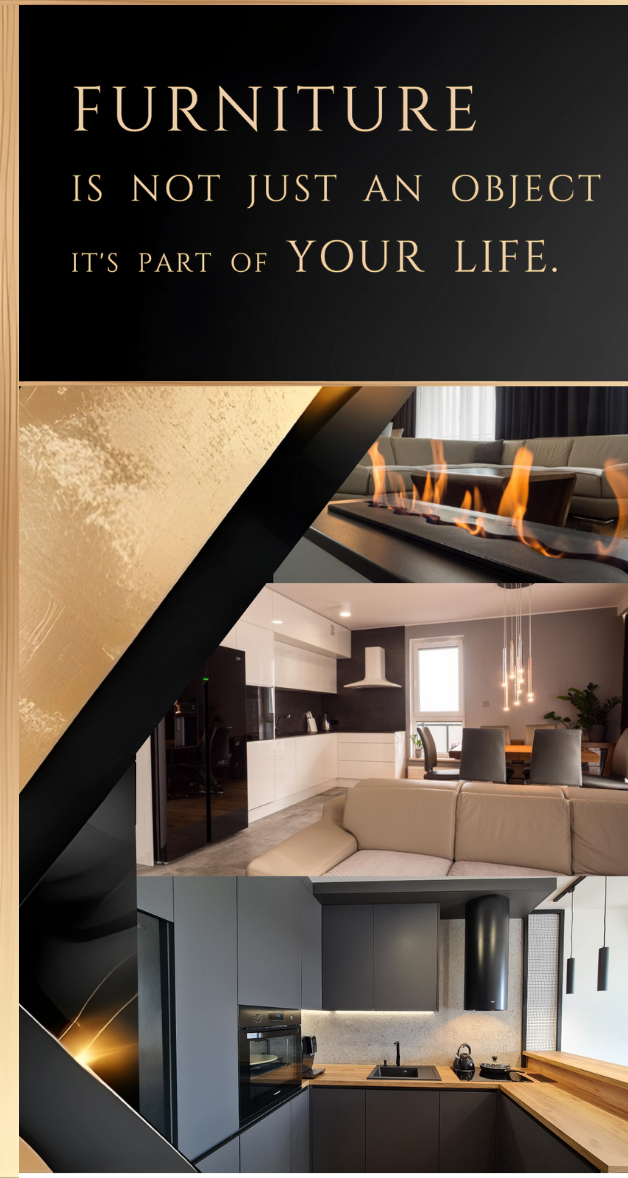
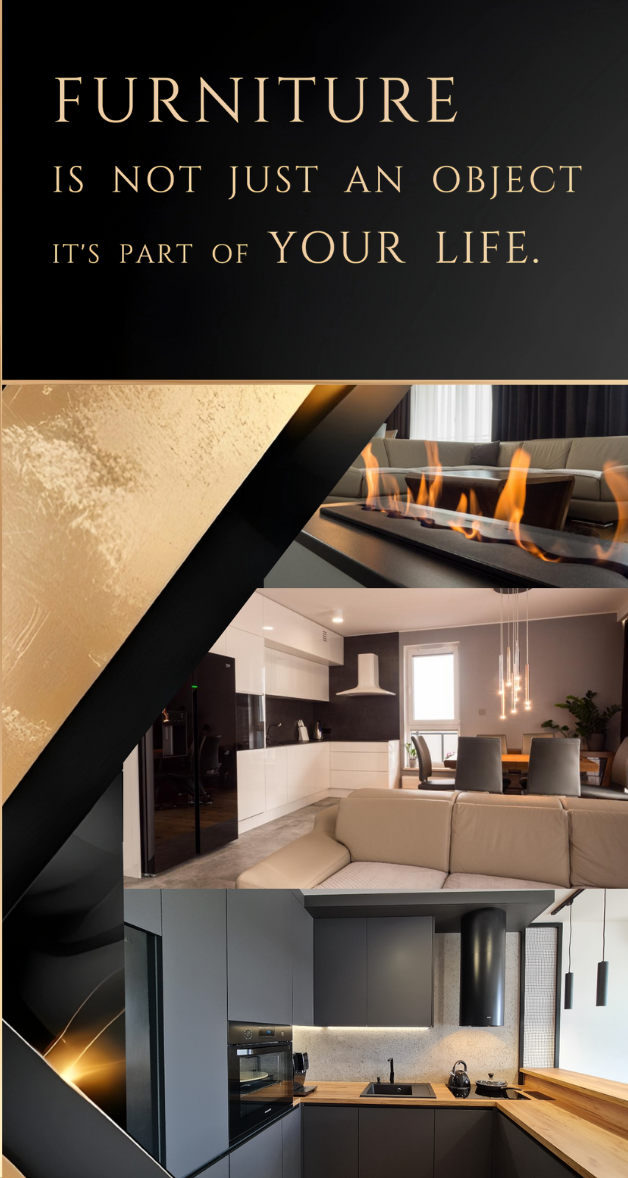
2

diff --git a/script.js b/script.js
@@ -482,7 +482,7 @@ function initializeApp() {
         initializeGalleryToggle();
         initializeMobileGalleryScrollReveal();
         initializeMobileAboutAnimation();
-        setupDynamicScrollBanner(); // Stabilne pozycjonowanie scroll bannera na mobile
+        setupDynamicScrollBannerForMobile(); // Dynamiczne pozycjonowanie dla banerm.png na 33%
         
         console.log('MetaStudio JavaScript initialized successfully');
     } catch (error) {
@@ -1072,28 +1072,13 @@ function initializeProjectHeightObserver() {
 }
 
 // ==========================================
-// DYNAMICZNE POZYCJONOWANIE SCROLL BANNERA (TYLKO MOBILE)
+// DYNAMICZNE POZYCJONOWANIE SCROLL BANNERA DLA BANERM.PNG
 // ==========================================
 
 /**
- * Funkcja debounce dla ograniczenia częstotliwości wywołań
+ * Funkcja do dynamicznego pozycjonowania scroll bannera na 34% wysokości banerm.png
  */
-function debounce(func, wait) {
-    let timeout;
-    return function executedFunction(...args) {
-        const later = () => {
-            clearTimeout(timeout);
-            func(...args);
-        };
-        clearTimeout(timeout);
-        timeout = setTimeout(later, wait);
-    };
-}
-
-/**
- * Funkcja do precyzyjnego pozycjonowania scroll bannera na mobile
- */
-function setupDynamicScrollBanner() {
+function setupDynamicScrollBannerForMobile() {
     const scrollBanner = document.querySelector('.scroll-banner');
     const header = document.querySelector('header');
     
@@ -1102,77 +1087,84 @@ function setupDynamicScrollBanner() {
         return;
     }
 
-    let currentPosition = null;
-
     function updateScrollBannerPosition() {
-        // Sprawdź czy to urządzenie mobilne (max-width: 767px)
-        if (window.innerWidth <= 767) {
+        // Sprawdź czy to urządzenie mobilne z banerm.png (≤480px)
+        if (window.innerWidth <= 480) {
             const bannerImage = header.querySelector('img[src*="baner"]');
             if (bannerImage) {
-                // Poczekaj aż obraz się załaduje
+                // Sprawdź czy obraz się załadował
                 if (bannerImage.complete && bannerImage.naturalHeight !== 0) {
-                    const imageHeight = bannerImage.offsetHeight;
-                    const headerOffsetTop = header.offsetTop;
+                    // Pobierz pozycję obrazka w dokumencie
+                    const imageRect = bannerImage.getBoundingClientRect();
+                    const imageHeight = imageRect.height;
+                    const imageTopInDocument = imageRect.top + window.pageYOffset;
                     
-                    // Oblicz pozycję jako 38% wysokości obrazka od góry headera
-                    const newPosition = headerOffsetTop + (imageHeight * 0.38);
+                    // 33% wysokości obrazka od góry MINUS połowa wysokości bannera (15px)
+                    // żeby banner był wyśrodkowany na pozycji 33%
+                    const targetPosition = imageTopInDocument + (imageHeight * 0.33) - 15;
                     
-                    // Aktualizuj tylko jeśli pozycja się znacząco zmieniła (więcej niż 2px)
-                    if (currentPosition === null || Math.abs(currentPosition - newPosition) > 2) {
-                        currentPosition = newPosition;
-                        
-                        scrollBanner.style.position = 'absolute';
-                        scrollBanner.style.top = `${newPosition}px`;
-                        scrollBanner.style.left = '0';
-                        scrollBanner.style.width = '100%';
-                        scrollBanner.style.zIndex = '10';
-                        
-                        console.log(`Scroll banner positioned at: ${newPosition}px (38% of ${imageHeight}px image height)`);
-                    }
+                    // Ustaw pozycjonowanie absolutne
+                    scrollBanner.style.position = 'absolute';
+                    scrollBanner.style.top = `${targetPosition}px`;
+                    scrollBanner.style.left = '0';
+                    scrollBanner.style.width = '100%';
+                    scrollBanner.style.zIndex = '10';
+                    scrollBanner.style.margin = '0';
+                    
+                    console.log(`Mobile banner positioned at: ${targetPosition.toFixed(1)}px`);
+                    console.log(`Image starts at: ${imageTopInDocument.toFixed(1)}px, height: ${imageHeight.toFixed(1)}px`);
+                    console.log(`33% of image height = ${(imageHeight * 0.33).toFixed(1)}px, minus 15px banner offset`);
                 } else {
-                    // Jeśli obraz się jeszcze nie załadował, spróbuj ponownie po chwili
+                    // Jeśli obraz się jeszcze nie załadował, spróbuj ponownie
                     setTimeout(updateScrollBannerPosition, 100);
                 }
             }
         } else {
             // Na większych ekranach przywróć domyślne pozycjonowanie CSS
-            if (currentPosition !== null) {
-                scrollBanner.style.position = '';
-                scrollBanner.style.top = '';
-                scrollBanner.style.left = '';
-                scrollBanner.style.width = '';
-                scrollBanner.style.zIndex = '';
-                currentPosition = null;
-                console.log('Scroll banner reset to default CSS positioning');
-            }
+            scrollBanner.style.position = '';
+            scrollBanner.style.top = '';
+            scrollBanner.style.left = '';
+            scrollBanner.style.width = '';
+            scrollBanner.style.zIndex = '';
+            scrollBanner.style.margin = '';
+            console.log('Desktop mode - scroll banner reset to CSS positioning');
         }
     }
 
-    // Utwórz wersję z debounce dla resize (200ms opóźnienie)
-    const debouncedUpdate = debounce(updateScrollBannerPosition, 200);
+    // Funkcja debounce dla lepszej wydajności
+    let resizeTimeout;
+    function debouncedUpdate() {
+        clearTimeout(resizeTimeout);
+        resizeTimeout = setTimeout(updateScrollBannerPosition, 100);
+    }
     
-    // Ustaw początkową pozycję po załadowaniu DOM
+    // Ustaw początkową pozycję
     setTimeout(updateScrollBannerPosition, 50);
     
-    // Nasłuchuj zmian rozmiaru okna z debounce
+    // Nasłuchuj zmian rozmiaru okna
     window.addEventListener('resize', debouncedUpdate);
     
-    // Nasłuchuj załadowania obrazów
+    // Nasłuchuj załadowania obrazu
     const bannerImage = header.querySelector('img[src*="baner"]');
     if (bannerImage) {
         bannerImage.addEventListener('load', updateScrollBannerPosition);
     }
     
-    // Dodatkowe sprawdzenie po pełnym załadowaniu strony
+    // Nasłuchuj orientacji urządzenia
+    window.addEventListener('orientationchange', () => {
+        setTimeout(updateScrollBannerPosition, 300);
+    });
+    
+    // Dodatkowe sprawdzenie po załadowaniu strony
     window.addEventListener('load', updateScrollBannerPosition);
     
-    console.log('Dynamic scroll banner positioning initialized (mobile only, 38% image height)');
+    console.log('Dynamic scroll banner positioning for banerm.png initialized (33% minus banner height)');
 }
 
 // Udostępnij funkcje globalnie
 window.toggleProducerDetails = toggleProducerDetails;
 window.adjustProjectSectionHeight = adjustProjectSectionHeight;
-window.setupDynamicScrollBanner = setupDynamicScrollBanner;
+window.setupDynamicScrollBannerForMobile = setupDynamicScrollBannerForMobile;
 
 // ==========================================
 // EKSPORT FUNKCJI (dla ewentualnego użycia w innych plikach)

diff --git a/styles.css b/styles.css
@@ -93,16 +93,23 @@ html, body {
     letter-spacing: 1px;
 }
 
-/* Wymuszenie domyślnego pozycjonowania na tabletach i PC */
-@media (min-width: 768px) {
+/* Pozycjonowanie dla obrazu baner1.png (tablet/desktop na mobile i większe ekrany powyżej 480px) */
+@media (min-width: 481px) {
     .scroll-banner {
-        position: relative !important;
-        top: auto !important;
-        left: auto !important;
-        width: 100vw !important;
-        max-width: 100% !important;
-        z-index: 9 !important;
-        margin: 0 auto !important;
+        position: relative;
+        margin-top: -30px; /* Nachodzi na dolną część obrazka baner1.png */
+        z-index: 10;
+    }
+}
+
+/* Pozycjonowanie dla obrazu banerm.png (mobile ≤480px) */
+@media (max-width: 480px) {
+    .scroll-banner {
+        position: absolute;
+        top: 38%;  /* 38% wysokości obrazka banerm.png */
+        left: 0;
+        width: 100%;
+        z-index: 10;
     }
 }
 
@@ -181,6 +188,8 @@ header::before {
   height: 2px;
   background-color: var(--color-primary);
   z-index: 2;
+  /* Dodaj cień rzucany na sekcję promocji */
+  box-shadow: 0 30px 50px rgba(0,0,0,0.2);
 }
 
 header::after {
@@ -3510,11 +3519,5 @@ section:first-of-type {
     object-fit: cover;
   }
   
-  .scroll-banner {
-    position: absolute;
-    top: 37%;
-    left: 0;
-    width: 100%;
-    z-index: 10;
-  }
+
 }
